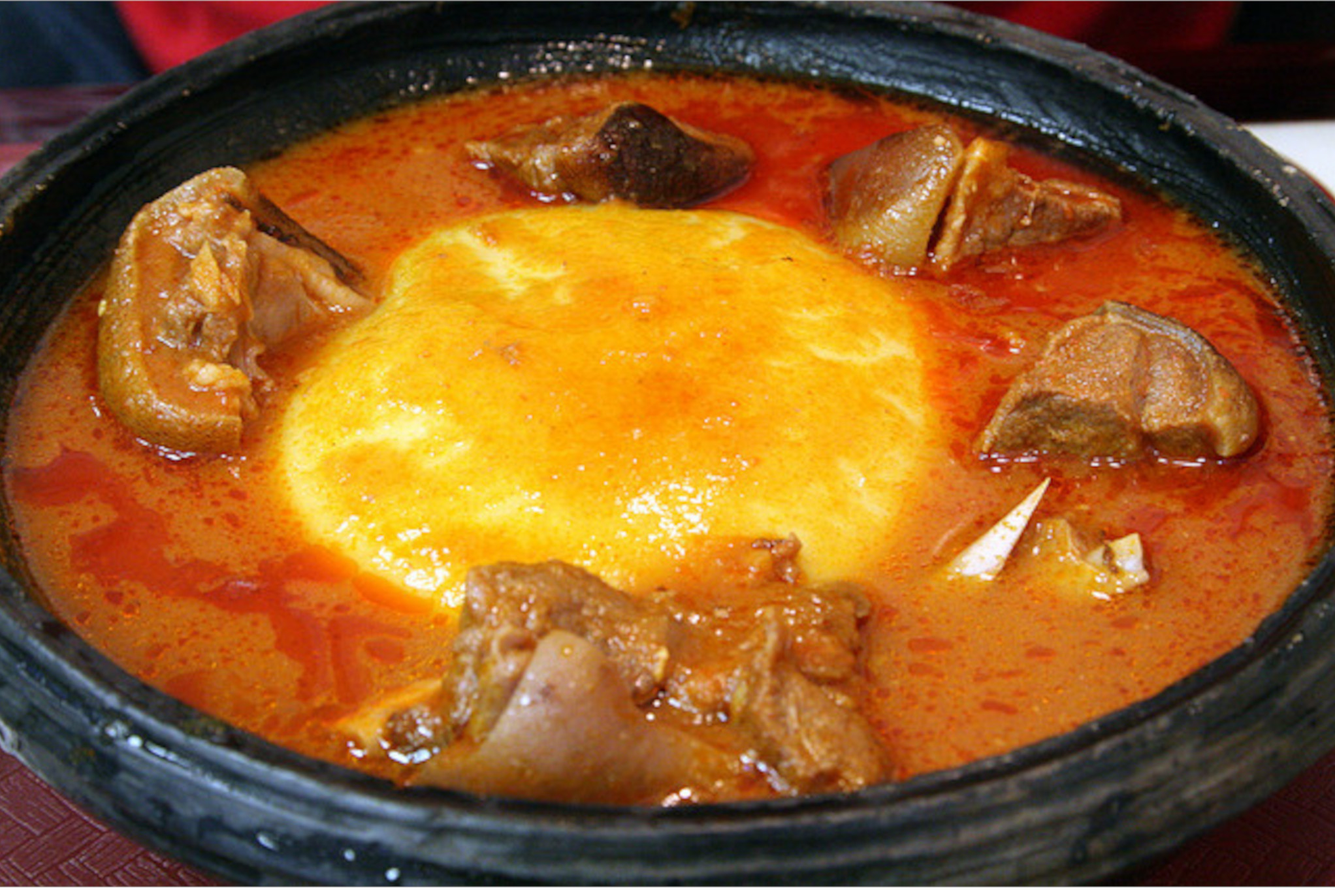
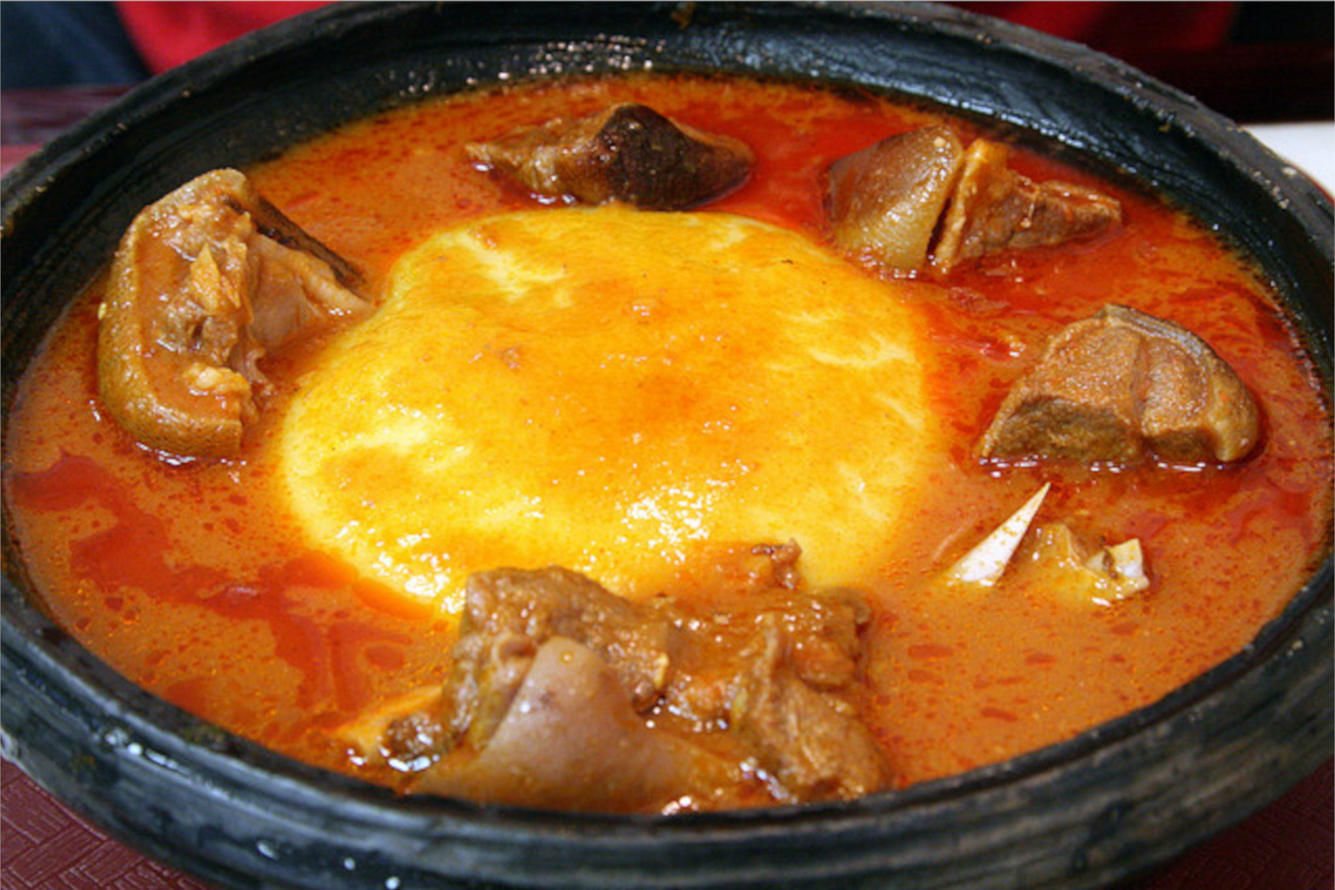
Touch fufu and yam porridge images a little bit and work on fufu.html
There were some white lines in the images after I first resized them,
so I went ahead to edit them again to get raid of those white lines.
Now I have change the extension of fufu image in fufu.html so that
the image of fufu will be displayed when that file is opened in
the browser.

diff --git a/recipes/fufu.html b/recipes/fufu.html
@@ -15,7 +15,7 @@
     <div class="grid-container">
         <header>
             <h1>Fufu <br> Recipe</h1>
-            <img src="../images/fufu.jpg" alt="bowl of Ghanaian fufu and palm nut soup" class="fufu">
+            <img src="../images/fufu.jpeg" alt="bowl of Ghanaian fufu and palm nut soup" class="fufu">
         </header>
         <main>
             <section class="origin">
